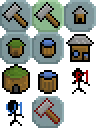
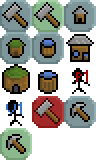
Added ability to gather things

diff --git a/gather.js b/gather.js
@@ -1,0 +1,163 @@
+import { gameify } from './gameify/gameify.js';
+import { manageModes } from './manageModes.js';
+import { message } from './message.js';
+
+const buildingTileset = new gameify.Tileset("images/builditembuttons.png", 32, 32);
+
+const gatherButtonImage = buildingTileset.getTile(2, 3);
+const gatherButtonActiveImage = buildingTileset.getTile(0, 4);
+const gatherButton = new gameify.Sprite(10, 68, gatherButtonImage);
+gatherButton.scale = 1.5;
+
+const previewGatherSprite = new gameify.Sprite(0, 0, buildingTileset.getTile(2, 3)); // new copy of tile for opacity
+previewGatherSprite.image.opacity = 0.5;
+previewGatherSprite.scale = 2;
+
+let gatherModeActive = false;
+
+const enterGatherMode = () => {
+    gatherButton.setImage(gatherButtonActiveImage);
+    gatherModeActive = true;
+}
+const exitGatherMode = () => {
+    gatherButton.setImage(gatherButtonImage);
+    gatherModeActive = false;
+}
+manageModes.addMode('gather', enterGatherMode, exitGatherMode);
+
+const gatherables = {
+    tree: {
+        sources: [
+            [3, 4],
+            [5, 4],
+            [0, 5],
+        ], // position on tilemap
+        resources: {
+            wood: 6
+        }
+    },
+    appleTree: {
+        sources: [
+            [4, 4]
+        ],
+        resources: {
+            wood: 6,
+            apples: 3
+        }
+    },
+    bush: {
+        sources: [
+            [1, 4],
+            [2, 4]
+        ], // position on tilemap
+        resources: {
+            wood: 3,
+            apples: 2
+        }
+    },
+    flower: {
+        sources: [
+            [1, 3],
+            [2, 3]
+        ], // position on tilemap
+        resources: {
+            gold: 2
+        }
+    },
+    rock: {
+        sources: [
+            [3, 3],
+            [4, 3]
+        ],
+        resources: {
+            stone: 5
+        }
+    },
+    largeRock: {
+        sources: [
+            [5, 3]
+        ],
+        resources: {
+            stone: 10
+        }
+    },
+    grass: {
+        sources: [
+            [0, 4]
+        ],
+        resources: { /* Nothing */ }
+    },
+}
+
+let resourceMap;
+
+export const gather = {
+    setScreen: (screen) => {
+        screen.add(gatherButton);
+        screen.add(previewGatherSprite);
+    },
+    setMap: (map) => {
+        resourceMap = map;
+    },
+    update: (deltaTime, screen, resources) => {
+        const mousePos = screen.mouse.getPosition();
+
+        if (mousePos.x > gatherButton.position.x
+            && mousePos.y > gatherButton.position.y
+            && mousePos.x < gatherButton.position.x + gatherButton.getSize().x
+            && mousePos.y < gatherButton.position.y + gatherButton.getSize().y
+        ) {
+            screen.element.style.cursor = 'pointer';
+
+            if (screen.mouse.eventJustHappened('left', /*capture=*/true)) {
+                if (gatherModeActive) exitGatherMode();
+                else manageModes.enterMode('gather');
+            }
+
+        } else if (gatherModeActive) {
+            const mouseWorldPosition = screen.camera.screenToWorld(screen.mouse.getPosition());
+            const mouseMapPosition = resourceMap.screenToMap(mouseWorldPosition);
+
+            previewGatherSprite.position = mouseMapPosition.multiply(resourceMap.twidth);
+
+            if (screen.mouse.eventJustHappened('left')
+                && resourceMap.get(mouseMapPosition.x, mouseMapPosition.y)
+            ) {
+                const tile = resourceMap.get(mouseMapPosition.x, mouseMapPosition.y);
+                let gatheredItem = false;
+                // check each gatherable item
+                gatherableLoop:
+                for (const type in gatherables) {
+                    const item = gatherables[type];
+                    // Check each possible position
+                    for (const source of item.sources) {
+                        if (source[0] === tile.source.x && source[1] === tile.source.y) {
+                            // Gather this item
+                            // Add resources
+                            for (const res in item.resources) {
+                                resources[res] += item.resources[res];
+                            }
+                            // Remove from map
+                            resourceMap.remove(mouseMapPosition.x, mouseMapPosition.y);
+
+                            gatheredItem = true;
+                            break gatherableLoop;
+                        }
+                    }
+                }
+
+                if (!gatheredItem) {
+                    message.showText(`You can't gather this item!`);
+                }
+            }
+        }
+    },
+    draw: () => {
+        if (gatherModeActive) {
+            previewGatherSprite.draw();
+        }
+    },
+    drawUI: () => {
+        gatherButton.draw();
+    }
+}

diff --git a/build.js b/build.js
@@ -1,5 +1,6 @@
 import { gameify } from './gameify/gameify.js';
 import { message } from './message.js';
+import { manageModes } from './manageModes.js';
 
 let buildModeActive = false;
 let currentlyBuilding = false;
@@ -8,11 +9,11 @@ const buildingTileset = new gameify.Tileset("images/builditembuttons.png", 32, 3
 const buildingMap = new gameify.Tilemap(64, 64);
 buildingMap.setTileset(buildingTileset);
 const buildButtonImages = {
-    build:          buildingTileset.getTile(0, 0),
-    buildActive:    buildingTileset.getTile(1, 0),
+    build:            buildingTileset.getTile(0, 0),
+    buildActive:      buildingTileset.getTile(1, 0),
     "house":          buildingTileset.getTile(2, 0),
-    "forager's hut":      buildingTileset.getTile(0, 1),
-    "water tank":      buildingTileset.getTile(1, 1),
+    "forager's hut":  buildingTileset.getTile(0, 1),
+    "water tank":     buildingTileset.getTile(1, 1),
     demolishBuilding: buildingTileset.getTile(1, 3),
 }
 
@@ -42,11 +43,11 @@ const buildings = {
 // Resource cost display
 const resourceCostImage = new gameify.Image("images/bulidCostBox.png");
 resourceCostImage.opacity = 0;
-const resourceCostSprite = new gameify.Sprite(10, 68, resourceCostImage);
+const resourceCostSprite = new gameify.Sprite(68, 68, resourceCostImage);
 const resourceCostTextStyle = new gameify.TextStyle('DefaultFont', 16, 'black');
 resourceCostTextStyle.opacity = 0;
 resourceCostTextStyle.lineHeight = 1.25;
-const resourceCostText = new gameify.Text('Resource Cost', 24, 78, resourceCostTextStyle);
+const resourceCostText = new gameify.Text('Resource Cost', 58+24, 78, resourceCostTextStyle);
 resourceCostSprite.scale = 1.5;
 const previewBuildSprite = new gameify.Sprite(0, 0, buildings["house"].image);
 previewBuildSprite.scale = 2;
@@ -85,6 +86,8 @@ const exitBuildMode = () => {
     currentlyBuilding = false;
     buildButtons['build'].active = true;
 }
+manageModes.addMode('build', enterBuildMode, exitBuildMode);
+
 const getMissingResources = (building, resources) => {
     const missing = [];
     for (const res in building.cost) {
@@ -150,7 +153,7 @@ const placeBuilding = (building, position, resources) => {
 }
 
 buildButtons['build'].click = () => {
-    enterBuildMode();
+    manageModes.enterMode('build');
 }
 buildButtons['buildActive'].click = () => {
     exitBuildMode();
@@ -175,8 +178,6 @@ export const build = {
     update: (deltaTime, screen, resources) => {
         buttonHovered = false;
         const mousePos = screen.mouse.getPosition();
-
-        screen.element.style.cursor = '';
 
         for (const bt in buildButtons) {
             const button = buildButtons[bt];
@@ -261,7 +262,7 @@ export const build = {
         }
 
     },
-    drawUI: (screen) => {
+    drawUI: () => {
         for (const bt in buildButtons) {
             const button = buildButtons[bt];
             if (!button.active) continue;

diff --git a/main.js b/main.js
@@ -2,6 +2,7 @@ import { gameify } from './gameify/gameify.js';
 import { dialogue } from './dialogue.js';
 import { build } from './build.js';
 import { message } from './message.js';
+import { gather } from './gather.js';
 
 import grassTilemapData  from './mapdata/grasslayer.tilemapdata.js';
 import natureTilemapData from './mapdata/naturelayer.tilemapdata.js';
@@ -35,6 +36,7 @@ dialogue.setScreen(screen);
 dialogue.setScene('tutorial');
 build.setScreen(screen);
 message.setScreen(screen);
+gather.setScreen(screen);
 
 //Main Character
 const characterSprite = new gameify.Image("images/temporaryChar.png")
@@ -43,7 +45,7 @@ const player = {
     resources: {
         wood: 5,  // Start with some resources for testing,
         stone: 0, // set this to zero later
-        apples: 3,
+        apples: 5,
         gold: 10
     }
 };
@@ -52,9 +54,9 @@ screen.add(player.sprite);
 // create map layers
 const worldMapTileset = new gameify.Tileset('images/worldmapalex1-9-24.png', 32, 32);
 const mapLayers = {
+    ocean: new gameify.Tilemap(64, 64),
     grass: new gameify.Tilemap(64, 64),
     nature: new gameify.Tilemap(64, 64),
-    ocean: new gameify.Tilemap(64, 64),
 };
 for (const layerName in mapLayers) {
     const layer = mapLayers[layerName];
@@ -64,6 +66,7 @@ for (const layerName in mapLayers) {
 mapLayers.grass.loadMapData(grassTilemapData);
 mapLayers.nature.loadMapData(natureTilemapData);
 mapLayers.ocean.loadMapData(oceanTilemapData);
+gather.setMap(mapLayers.nature);
 
 // Don't build on the ocean or the trees
 build.collideWithMap(mapLayers.ocean);
@@ -92,8 +95,12 @@ for (const r in player.resources) {
 
 const plainsWorldScene = new gameify.Scene(screen);
 plainsWorldScene.onUpdate((deltaTime) => {
+    // Reset the mouse cursor to default
+    // (not 'pointer', when buttons are hovered)
+    screen.element.style.cursor = '';
 
     screen.camera.focus(new gameify.Vector2d(200, 200), new gameify.Vector2d(24, 24));
+    gather.update(deltaTime, screen, player.resources);
     build.update(deltaTime, screen, player.resources);
     dialogue.updateBox();
 
@@ -114,6 +121,7 @@ plainsWorldScene.onDraw(() => {
     
     player.sprite.draw();
     
+    gather.draw();
     build.draw();
 
     screen.camera.setDrawMode('ui');
@@ -125,7 +133,8 @@ plainsWorldScene.onDraw(() => {
     }
 
     dialogue.drawBox();
-    build.drawUI(screen);
+    gather.drawUI();
+    build.drawUI();
     message.draw();
 });
 screen.setScene(plainsWorldScene);

diff --git a/manageModes.js b/manageModes.js
@@ -1,0 +1,20 @@
+
+const modes = {};
+
+export const manageModes = {
+    exitAll: () => {
+        for (const m in modes) {
+            modes[m].exit();
+        }
+    },
+    enterMode: (name) => {
+        manageModes.exitAll();
+        modes[name].enter();
+    },
+    addMode: (name, enterFunction, exitFunction) => {
+        modes[name] = {
+            enter: enterFunction,
+            exit: exitFunction
+        }
+    }
+}

diff --git a/dialogue.js b/dialogue.js
@@ -64,7 +64,8 @@ export const dialogue = {
 `Eventually we will build a great city here,
 but first, we must get resources to survive by ourselves.
 
- - Walk near a tree or rock, then left click to chop/mine it`,
+ - Enter gathering mode by clicking the pickaxe button (top left)
+ - Walk near a tree or rock, then left click to gather it`,
 /* ---- */
 `Now we must build ourselves a place to live.
 
